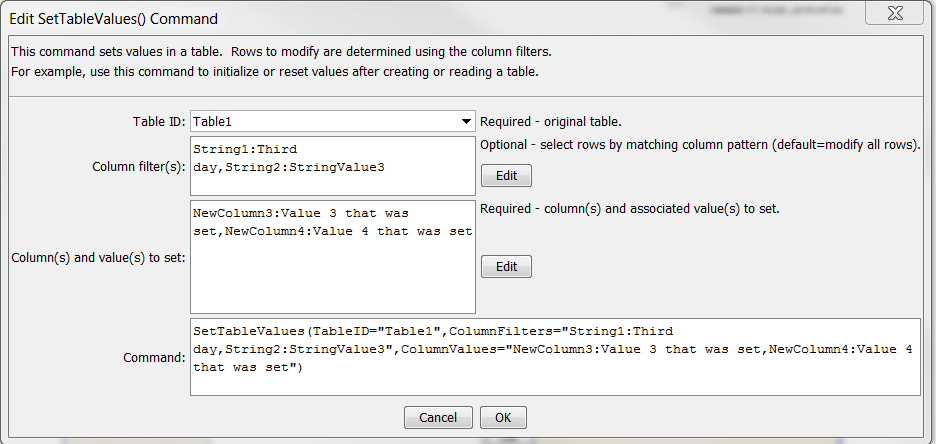
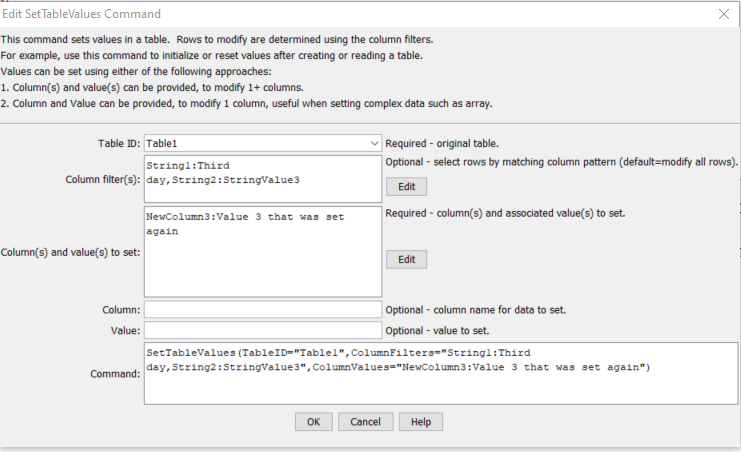
Update documentation for additional array support, issue #35

Changed region(s): [[0.0, 0.0, 1.0, 1.0], [0.776, 0.9955, 0.9001, 1.0], [0.0, 0.9662, 0.0621, 1.0]]

diff --git a/mkdocs-project/docs/command-ref/WriteTableToDelimitedFile/WriteTableToDelimitedFile.md b/mkdocs-project/docs/command-ref/WriteTableToDelimitedFile/WriteTableToDelimitedFile.md
@@ -12,12 +12,12 @@
 ## Overview ##
 
 The `WriteTableToDelimitedFile` command writes a table to a delimited file.
-Currently only the comma is supported as the delimiter.
 This command is the analog to the
 [`ReadTableFromDelimitedFile`](../ReadTableFromDelimitedFile/ReadTableFromDelimitedFile.md) command.
 It can be used to provide tabular data to other programs, such as spreadsheet programs and geographic information systems.
+It is also useful to write tables to delimited text files for automated tests.
 
-The default is to write a standard file header using comment lines that start with the # character.
+The default is to write a standard file header using comment lines that start with the `#` character.
 If available, column names will be written in double quotes as the first non-comment row.
 Formatting for cell values is limited and the default precision of floating point numbers
 may include too many digits – this will be addressed in future updates.
@@ -26,7 +26,9 @@ may include too many digits – this will be addressed in future updates.
 
 The following dialog is used to edit the command and illustrates the command syntax.
 
+**<p style="text-align: center;">
 ![WriteTableToDelimitedFile](WriteTableToDelimitedFile.png)
+</p>**
 
 **<p style="text-align: center;">
 `WriteTableToDelimitedFile` Command Editor (<a href="../WriteTableToDelimitedFile.png">see also the full-size image</a>)
@@ -47,11 +49,14 @@ Command Parameters
 | --------------|-----------------|----------------- |
 |`TableID`<br>**required**|Identifier for the table to write.  Can be specified using processor `${Property}`.|None – must be specified.|
 |`OutputFile`<br>**required**|The name of the file to write, as an absolute path or relative to the command file location.  Can be specified using processor `${Property}`.|None – must be specified.|
-|`WriteHeaderComments`|Indicates whether to write the header comments, `True` or `False`.  Some programs, such as Esri’s ArcGIS do not handle delimited files with comments.|`True`|
+|`WriteHeaderComments`|Indicates whether to write the header comments, `True` or `False`.  Some programs do not handle delimited files with comments.|`True`|
+|`WriteColumnNames`|Indicates whether to write the column names, `True` or `False`.  Some programs do not handle column names. |`True`|
+|`Delimiter`|Delimiter character to separate column values, must be a single character if specified |`,` (comma)|
+|`AlwaysQuoteDateTimes`|Indicates whether values in date/times columns should always be surrounded by double quotes:<ul><li>`False` – only quote date/times that contain the delimiter</li><li>`True` – always quote date/times</li></ul><br>Quoting may impact how date/times are handled in other programs, for example in Excel.|`False`|
 |`AlwaysQuoteStrings`|Indicates whether values in string columns should always be surrounded by double quotes:<ul><li>`False` – only quote strings that contain the delimiter</li><li>`True` – always quote strings</li></ul><br>An example of using `AlwaysQuoteStrings=True` is to quote identifiers that have a leading zero (e.g., `01234567`).  Not quoting may cause the values to be interpreted as integers when read from the delimited file.|`False`|
 |`NewlineReplacement`|The string to replace newlines in string values, necessary to prevent unexpected line breaks in output rows.  In order to handle newlines from various systems, the following patterns are replaced in sequence:<ul><li>`\r\n`</li><li>`\n`</li><li>`\r`</li></ul><br>The following special parameter values are recognized:<ul><li>`\t` – replace newline with tab</li><li>`\s` – replace newline with space|Do not replace newlines (file format may be unusable because of unexpected line breaks)|
-|`NaNValue`|The value to write for `NaN` data values.  Specify Blank to write a blank (empty string).|`NaN`|
-|`OutputSchemaFile`|Name of schema file to write, useful to help other software understand contents of the delimited file.  See the `OutputSchemaFormat` parameter.|Do not create schema file.|
+|`NaNValue`|The value to write for `NaN` data values.  Specify the word `Blank` to write a blank (empty string).|`NaN`|
+|`OutputSchemaFile`|Name of schema file to write, useful to help other software understand contents of the delimited file.  See the `OutputSchemaFormat` parameter.  This is an experimental feature being evaluated to facilitate data exchange between software.|Do not create schema file.|
 |`OutputSchemaFormat`|Schema format, one of the following, output is limited but will be expanded in the future:<ul><li>`JSONTableSchema` – see [frictionlessdata schema](http://specs.frictionlessdata.io/json-table-schema)</li><li>`GoogleBigQuery` – see [Google big query](https://cloud.google.com/bigquery/docs/reference/rest/v2/tables)</li></ul>| `JSONTableSchema`|
 
 ## Examples ##

diff --git a/mkdocs-project/docs/command-ref/NewTable/NewTable.md b/mkdocs-project/docs/command-ref/NewTable/NewTable.md
@@ -11,22 +11,35 @@
 
 ## Overview ##
 
-The `NewTable` command creates a table with named columns, each of which is a specified data type.
-Tables are used to hold information about data objects, such as statistics for time series.
-Commands like [`CalculateTimeSeriesStatistic`](../CalculateTimeSeriesStatistic/CalculateTimeSeriesStatistic.md) can add information to tables.
-Tables can be written as final data products or artifacts of processing.  Characteristics of the table are as follows:
+The `NewTable` command creates a table with named columns,
+each of which contains data of a specified data type.
+Common uses for tables are:
+
+* hold tabular data from files, databases, web services
+* facilitate conversion of data between tables and time series
+* hold analysis results information such as statistics for time series and data check warnings
+	+ commands like [`CalculateTimeSeriesStatistic`](../CalculateTimeSeriesStatistic/CalculateTimeSeriesStatistic.md)
+	can add information to tables.
+* simple "flat" data representation that can be output be written as final data products or artifacts of processing
+
+Characteristics of the table are as follows:
 
 * Each column can only contain a single data type
+	+ special values such as null and `NaN` are generically handled
+	+ arrays of a data type can also be stored in columns, although full support is limited
 * The default precision for numbers for display and output is 2 digits after the
 decimal – additional formatting features may be available in write commands and may be added later
 * Tables are referenced using the `TableID` parameter
-* Cells in tables are referenced using the column name and cell values that identify rows (such as time series identifiers)
+* Cells in tables are referenced using the column name and cell values that identify rows
+(such as location or time series identifiers)
 
 ## Command Editor ##
 
 The following dialog is used to edit the command and illustrates the command syntax.
 
+**<p style="text-align: center;">
 ![NewTable](NewTable.png)
+</p>**
 
 **<p style="text-align: center;">
 `NewTable` Command Editor (<a href="../NewTable.png">see also the full-size image</a>)
@@ -46,7 +59,7 @@ Command Parameters
 | **Parameter**&nbsp;&nbsp;&nbsp;&nbsp;&nbsp;&nbsp;&nbsp;&nbsp;&nbsp;&nbsp;&nbsp;&nbsp; | **Description** | **Default**&nbsp;&nbsp;&nbsp;&nbsp;&nbsp;&nbsp;&nbsp;&nbsp;&nbsp;&nbsp; |
 | --------------|-----------------|----------------- |
 |`TableID`<br>**required**|Identifier for the table – should be unique among tables that are defined.  Can be specified using processor `${Property}`.|None – must be specified.|
-|`Columns`|The column names and data types are defined using the format `ColumnName,DataType; ColumnName,DataType`.  Column names can contain spaces; however, simple short names are generally handled better by display features and minimize errors in referencing the columns.  Data types are specified using the following strings:<ul><li>`datetime` – date and time</li><li>`double` – double precision number</li><li>`float` – single precision number</li><li>`integer` – integer (`-2147483648` to `2147483647`)</li><li>`short` – short integer (`-32768` to `32767`)</li><li>`string` – Unicode string</li></ul>|No columns will be defined.|
+|`Columns`|The column names and data types are defined using the format `ColumnName1,DataType1;ColumnName2,DataType2`.  Column names can contain spaces; however, simple short names without spaces are generally handled better by display features and minimize errors in referencing the columns.  Data types are specified using the following strings:<ul><li>`boolean` - holds `true` or `false`</li><li>`datetime` – date and optionally time, consistent with TSTool date/time</li><li>`double` – double precision number (max value `1.7976931348623157E308`)</li><li>`float` – single precision number (`-2E63` to `2E63 - 1`)</li><li>`integer` – integer (`-2147483648` to `2147483647`)</li><li>`long` - long integer (`-9,223,372,036,854,775,808` to `9,223,372,036,854,775,807`)<li>`short` – short integer (`-32768` to `32767`)</li><li>`string` – Unicode string</li></ul><br>If arrays are used, indicate the data type in square brackets, for example `ColumnName1,[double]`.|No columns will be defined.|
 
 ## Examples ##
 

diff --git a/mkdocs-project/docs/command-ref/SetTableValues/SetTableValues.md b/mkdocs-project/docs/command-ref/SetTableValues/SetTableValues.md
@@ -12,18 +12,27 @@
 ## Overview ##
 
 The `SetTableValues` command sets values in a table.
-It does so by first optionally matching rows by filtering on column values (see `ColumnFilters` parameter),
-and then setting values in specified columns (see `ColumnValues` parameter).
-For example, this command can be used to set or override table values that were not included in the original data.
+It does so by:
+
+1. First match rows by filtering on column values (see `ColumnFilters` parameter).
+The default if no filters are specified is to match all rows.
+2. Set values in specified columns:
+	1. If `ColumnValues` parameter is specified, set one or more column values.
+	2. If `Column` and `Value` parameters are specified, set a single column's values.
+	This form is used when the `ColumnValues` syntax is complicated,
+	such as when a column containing array is modified.
+
+This command can be used to set or override table values that were not included in the original data.
 See also the [`FormatTableString`](../FormatTableString/FormatTableString.md) and
 [`ManipulateTableString`](../ManipulateTableString/ManipulateTableString.md) commands.
 
 ## Command Editor ##
 
-The following dialog is used to edit the command and illustrates the syntax of the command
-(in this case illustrating how values in a column named `LocationID` are copied to a new table).  
+The following dialog is used to edit the command and illustrates the syntax of the command.
 
+**<p style="text-align: center;">
 ![SetTableValues](SetTableValues.png)
+</p>**
 
 **<p style="text-align: center;">
 `SetTableValues` Command Editor (<a href="../SetTableValues.png">see also the full-size image</a>)
@@ -44,7 +53,9 @@ Command Parameters
 | --------------|-----------------|----------------- |
 |`TableID`<br>**required**|The identifier for the table being modified.  Can be specified using `${Property}` notation.|None – must be specified.|
 |`ColumnFilters`|Filters that limit the number of rows being modified, using the syntax:<br>`FilterColumn1:FilterPattern1, FilterColumn2:FilterPattern2`<br>Patterns can use `*` to indicate wildcards for matches.  Only string values can be checked (other data types are converted to strings for comparison).  Comparisons are case-independent.  All patterns must be matched in order to match the row.  The parameter can be specified using `${Property}` notation.|Process all rows in the table.|
-|`ColumnValues`<br>**required**|The column names and corresponding values to set using syntax:<br>`ColumnName1:Value1, ColumnName2:Value2`<br>The column name and value parts can be specified using `${Property}` notation.|None – must be specified.|
+|`ColumnValues`<br>|The column names and corresponding values to set using syntax:<br>`ColumnName1:Value1, ColumnName2:Value2`<br>The column name and value parts can be specified using `${Property}` notation.||
+|`Column`<br>|The column name to set a single value, can use `${Property}` notation.  A corresponding `Value` must be provided.||
+|`Value`<br>|The value to set, can use `${Property}` notation.  Array values can be set using notation `[value1,value2,value3...]`.||
 
 ## Examples ##
 

diff --git a/mkdocs-project/docs/appendix-release-notes/release-notes-13.md b/mkdocs-project/docs/appendix-release-notes/release-notes-13.md
@@ -1,13 +1,21 @@
 # TSTool / Release Notes / Version 13 #
 
+* [Changes in Version 13.03.00](#changes-in-version-130300)
 * [Changes in Version 13.02.00](#changes-in-version-130200)
 * [Changes in Version 13.00.00 - 13.01.00](#changes-in-version-130000-130100)
 
 ----------
 
-## Changes in Versions 13.02.00 ##
+## Changes in Versions 13.03.00 ##
 
-* ![new](new.png) [13.03.00] Add [`RunR`](../command-ref/RunR/RunR.md) command to run `R` scripts.
+* ![change](change.png) [13.03.00] Fix a number of issues where table arrays were not cleanly supported.
+* ![change](change.png) [13.03.00] Update the [`NewTable`](../command-ref/NewTable/NewTable.md) command to support arrays.
+* ![change](change.png) [13.03.00] Update the [`SetTableValues`](../command-ref/SetTableValues/SetTableValues.md) command to
+add `Column` and `Value` parameters to set a single column value, useful for complex values such as arrays
+* ![change](change.png) [13.03.00] Update the [`WriteTableToDelimitedFile`](../command-ref/WriteTableToDelimitedFile/WriteTableToDelimitedFile.md)
+command parameters to provide more flexibility in controlling the file format and support array columns.
+Also enhance performance of the command.
+* ![new](new.png) [13.03.00] Add the [`RunR`](../command-ref/RunR/RunR.md) command to run `R` scripts.
 
 ## Changes in Versions 13.02.00 ##
 

diff --git a/mkdocs-project/docs/command-ref/RunR/RunR.md b/mkdocs-project/docs/command-ref/RunR/RunR.md
@@ -132,7 +132,7 @@ Command Parameters
 | --------------|-----------------|----------------- |
 |`RProgram`<br>|The name of the `R` program to run as abolute path or program name, can be specified with `${Property}` syntax.|`Rscript`, found in `PATH` environment variable folder or in standard installation location folder. |
 |`ROptions`|Commaand line options to pass to `RProgram`, separated by spaces.  Can be specified using `${Property}` syntax.|No options will be used.|
-|`ScriptFile` <b>**required**|`R` script to run.  Can be specified using `${Property}` syntax.|None - must be specified.|
+|`ScriptFile`<br>**required**|`R` script to run.  Can be specified using `${Property}` syntax.|None - must be specified.|
 |`ScriptArguments`|Arguments to pass to the script, such as the names of files to process.  Use the `${WorkingDirPortable}` property to specify the location of the TSTool command file.  Use `\”` to surround arguments that include spaces.  Separate arguments by a space.  Can be specified using `${Property}` syntax.||
 
 ## Examples ##

diff --git a/mkdocs-project/docs/appendix-release-notes/release-notes.md b/mkdocs-project/docs/appendix-release-notes/release-notes.md
@@ -76,7 +76,7 @@ TSTool Version History Summary (most current at top)
 
 |**TSTool Version(s)**&nbsp;&nbsp;&nbsp;&nbsp;&nbsp;&nbsp;&nbsp;&nbsp;&nbsp;&nbsp;&nbsp;&nbsp;&nbsp;&nbsp;&nbsp;&nbsp;&nbsp;&nbsp;&nbsp;&nbsp;|**Summary of Major Changes in Version**|**Release Date**|
 |--|--|--|
-|[13.03.00](release-notes-13.md)|Add initial `R` integration.|2019-09-28|
+|[13.03.00](release-notes-13.md)|Add initial `R` integration, improve table array support.|2019-09-30|
 |[13.02.00](release-notes-13.md)|Improve table processing commands, clarify HydroBase read commands, improve support for stored procedures with parameters.|2019-09-10|
 |[13.01.00](release-notes-13.md)|Improve troubleshooting feedback for HydroBase datastore configuration, streamline Linux installer.|2019-08-04|
 |[13.00.00](release-notes-13.md)|First major release with OpenCDSS open source license.|2019-07-12|
